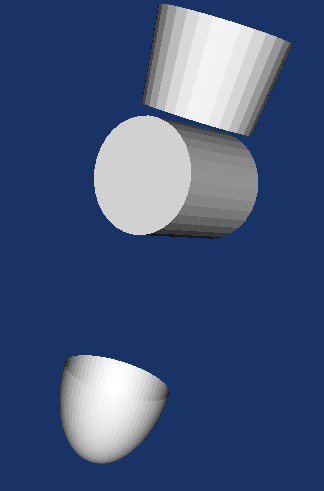
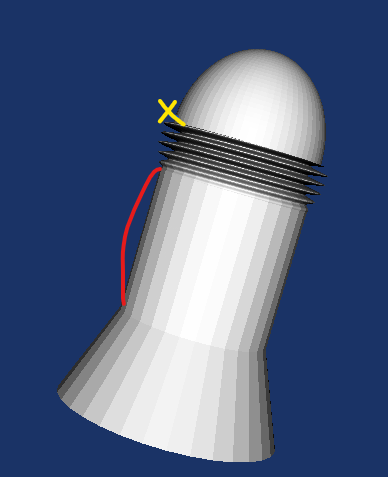
基本完成参数化建模

diff --git a/static/src/CreateComponent.cpp b/static/src/CreateComponent.cpp
@@ -197,10 +197,10 @@ vtkSmartPointer<vtkPolyData> BuildThreadedCylinderWorld(double radius, double de
     int resZ = std::max(resolution * turns * 2, turns * 16);
     double full = vtkMath::Pi() * 2.0;
     double pitch = height / static_cast<double>(turns);
-    double flatGap = 0.2;       // 两端纯平区长度
-    double fadeLen = 0.2;       // 渐变长度
+    double flatGap = 0.5;       // 两端纯平区长度（固定长度，对称）
+    double fadeLen = 0.25;      // 渐变长度（固定长度，对称）
 
-    // 若颈部太短，按比例缩放空隙/渐变，但保留对称结构
+    // 若颈部太短，按比例缩放空隙/渐变，但保持两端对称
     double needed = 2.0 * (flatGap + fadeLen);
     if (needed >= height) {
         double scale = height / needed;
@@ -216,8 +216,7 @@ vtkSmartPointer<vtkPolyData> BuildThreadedCylinderWorld(double radius, double de
     auto points = vtkSmartPointer<vtkPoints>::New();
     auto polys = vtkSmartPointer<vtkCellArray>::New();
 
-    auto radiusAt = [&](double z, double theta) {
-        double zLocal = z - z0;
+    auto radiusAt = [&](double zLocal, double theta) {
         if (zLocal < flatGap || zLocal > fadeOutEnd) {
             return radius; // 纯平区
         }
